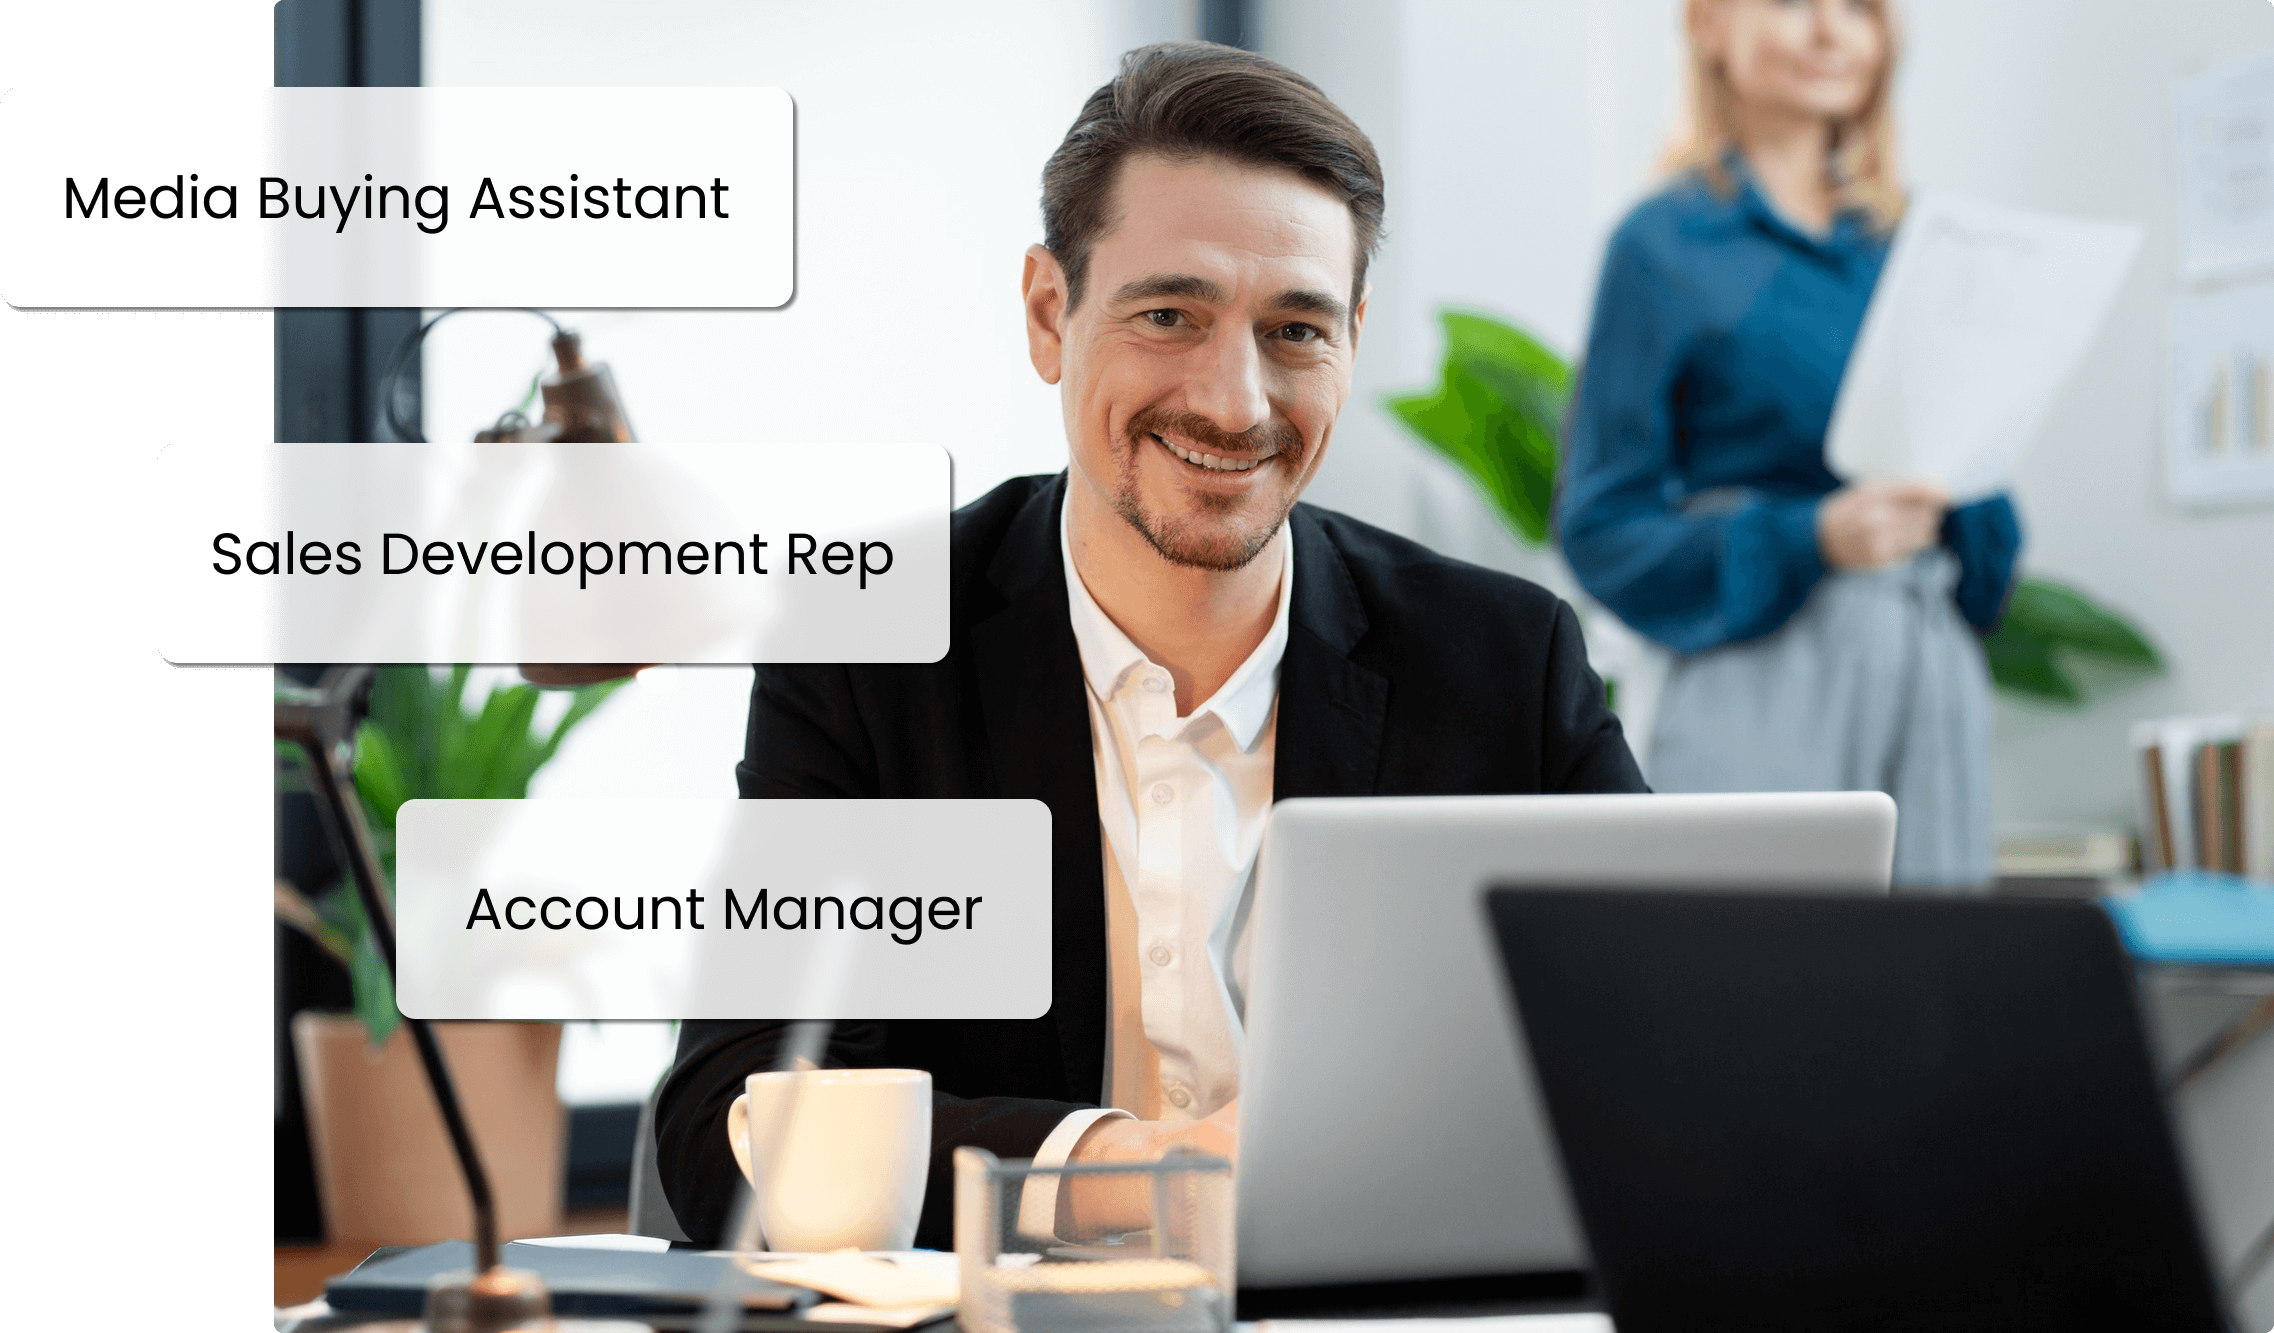
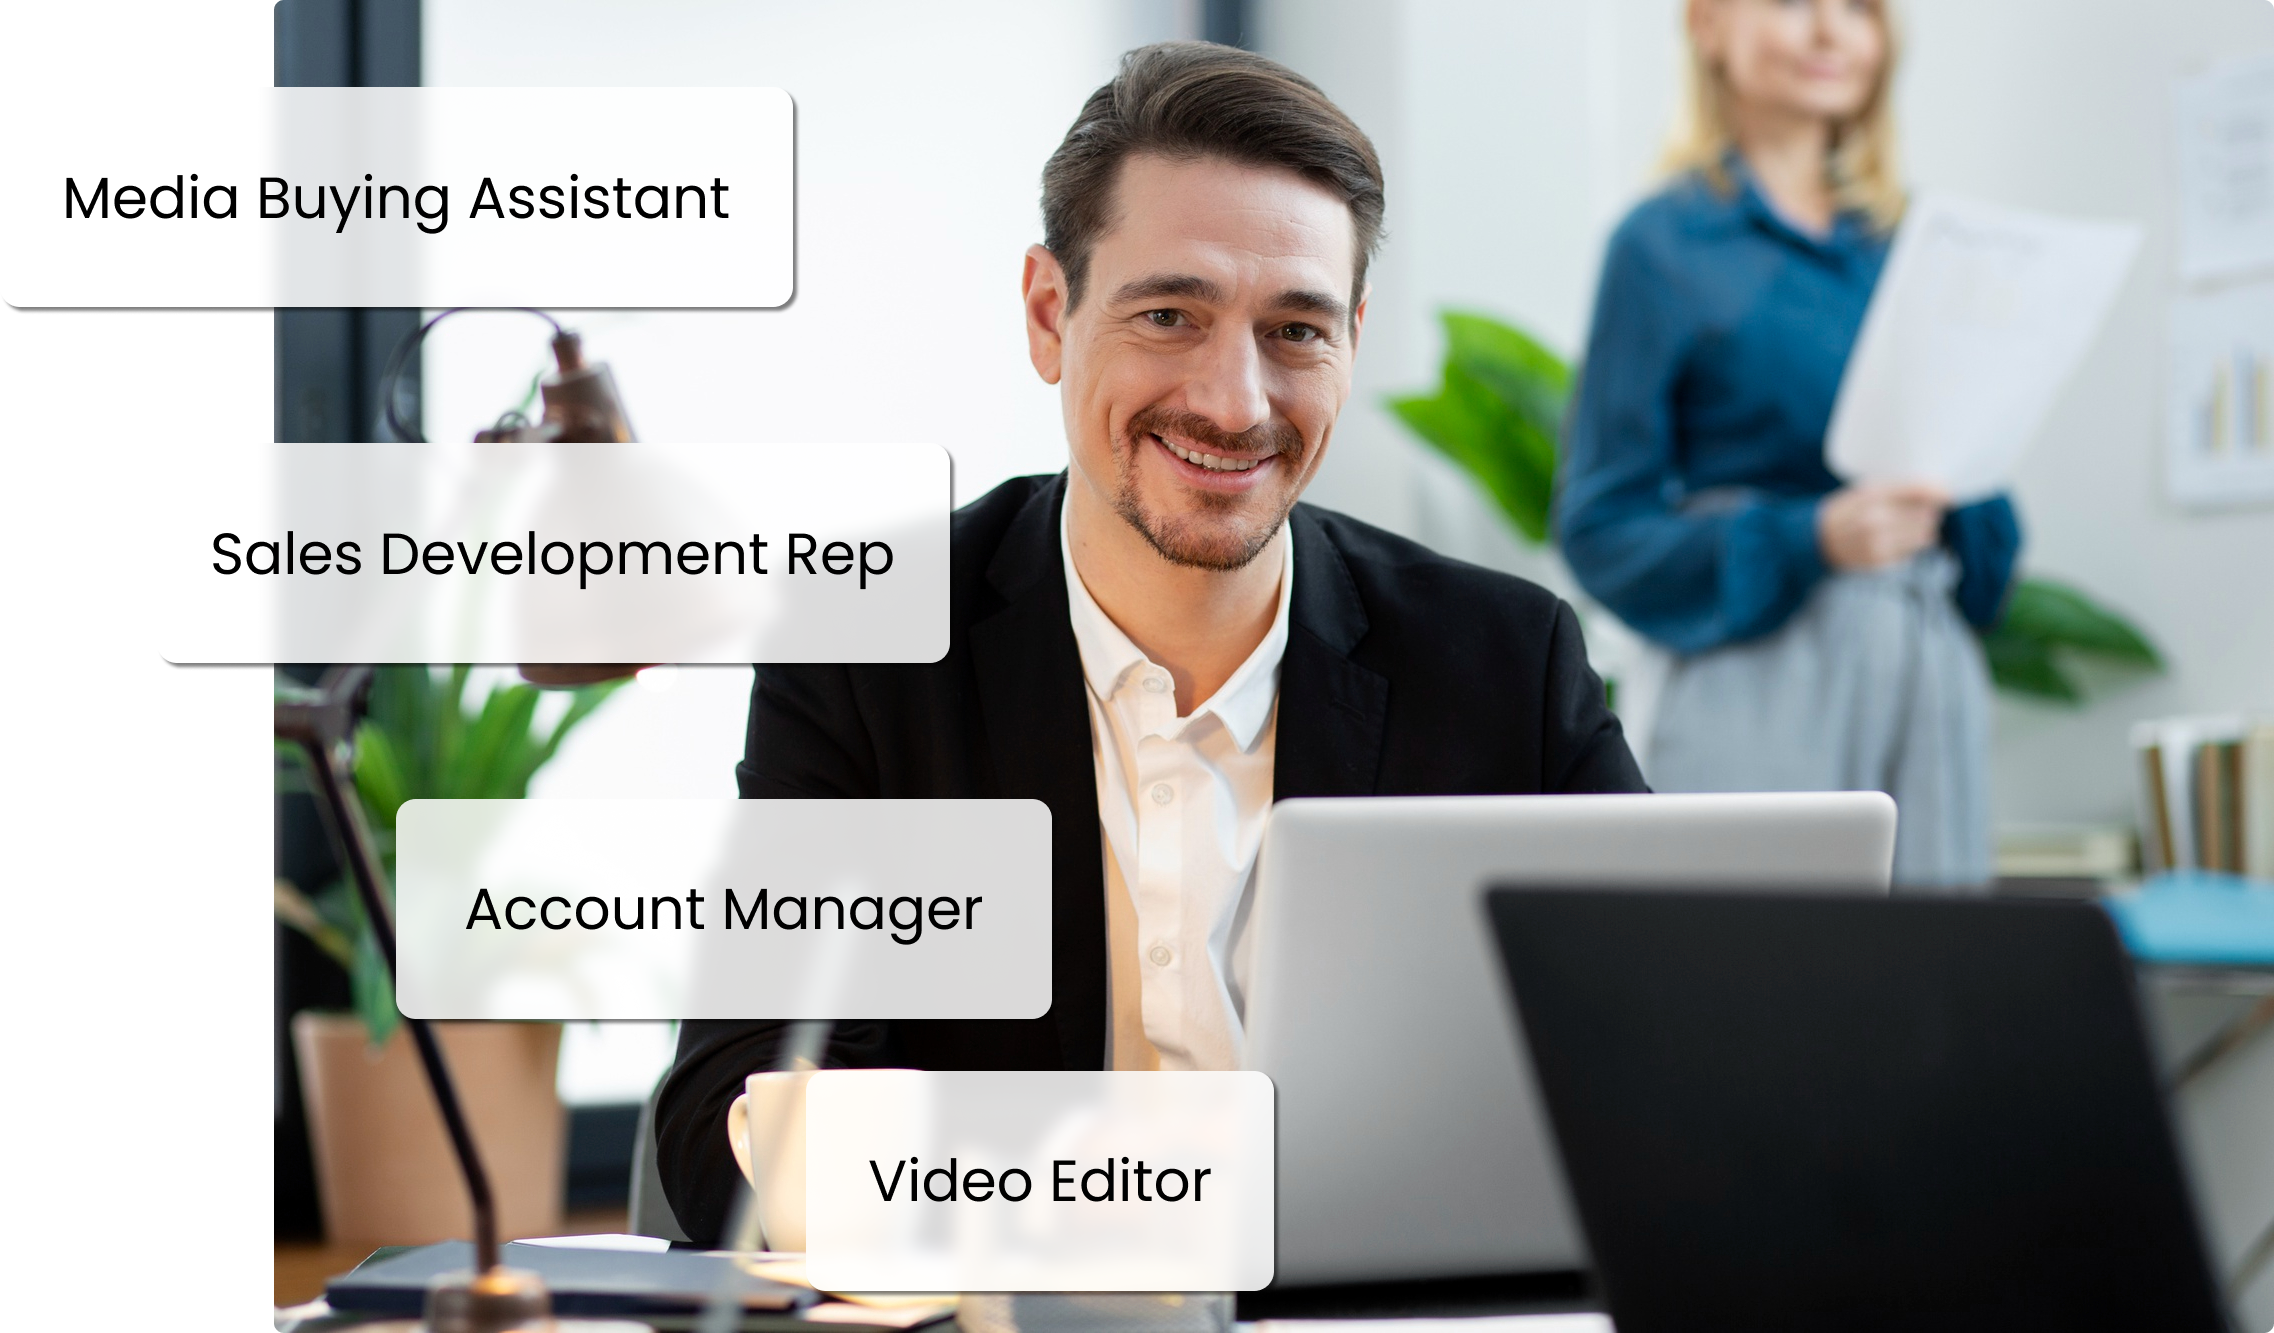
worked on the current changes

Changed region(s): [[0.3434, 0.7997, 0.562, 0.9842]]

diff --git a/components/pricing/index.js b/components/pricing/index.js
@@ -3,7 +3,7 @@ import React, { useState, useEffect } from "react";
 function Pricing() {
   return (
     <section className="pricing-con">
-      <h1 className="mainheading">3 Roles</h1>
+      <h1 className="mainheading">4 Roles</h1>
       <div className="pricing-card-wrap">
         <div className="card-wrap">
           <h1 className="card-heading">Marketing Assistant</h1>
@@ -63,22 +63,15 @@ function Pricing() {
               Handling Payment Processers like Stripe or Wave
             </li>
           </ul>
-          <h3>
-            <Image src="/images/done.png" width={12} height={16} alt="~" />
-            Excellent Leadership Qualities
-          </h3>
-          <h3>
+
+          <h3 style={{ marginBottom: "30px" }}>
             <Image src="/images/done.png" width={12} height={16} alt="~" /> Pre
             Launch and Manage Podcasts/Webinars
           </h3>
-          <h3>
-            <Image src="/images/done.png" width={12} height={16} alt="~" /> Pre
-            Entry Level Managers
-          </h3>
-          <h3 style={{ marginBottom: "30px" }}>
-            <Image src="/images/done.png" width={12} height={16} alt="~" /> Pre
-            Pre trained Digital Marketers*
-          </h3>
+          <h3 className="cus-sol-h">** Customized Solution **</h3>
+          <p className="italic-p">
+            Tell us what you need and we&apos;ll hunt for those qualities!
+          </p>
           <div className="price-card-btn">
             <a href="#calendly" className="btnLink">
               Get Started
@@ -119,24 +112,16 @@ function Pricing() {
           </h3>
           <h3>
             <Image src="/images/done.png" width={12} height={16} alt="~" />
-            Capable of Setting Comp Structure for Others
-          </h3>
-          <h3>
-            <Image src="/images/done.png" width={12} height={16} alt="~" />
-            Strong Interpersonal Skills
-          </h3>
-          <h3>
-            <Image src="/images/done.png" width={12} height={16} alt="~" />
             Strong Communication Skills
           </h3>
           <h3>
             <Image src="/images/done.png" width={12} height={16} alt="~" />
             Relationship Building Skills
           </h3>
-          <h3>
-            <Image src="/images/done.png" width={12} height={16} alt="~" /> Pre
-            trained Digital Marketers*
-          </h3>
+          <h3 className="cus-sol-h">** Customized Solution **</h3>
+          <p className="italic-p">
+            Tell us what you need and we&apos;ll hunt for those qualities!
+          </p>
           <div className="price-card-btn">
             <a href="#calendly" className="btnLink">
               Get Started
@@ -168,24 +153,79 @@ function Pricing() {
           </ul>
           <h3>
             <Image src="/images/done.png" width={12} height={16} alt="~" />
-            Culturally Fit
-          </h3>
-          <h3>
-            <Image src="/images/done.png" width={12} height={16} alt="~" />
             Project Management
           </h3>
           <h3>
             <Image src="/images/done.png" width={12} height={16} alt="~" />
             Team Management
           </h3>
+          <h3 className="cus-sol-h">** Customized Solution **</h3>
+          <p className="italic-p">
+            Tell us what you need and we&apos;ll hunt for those qualities!
+          </p>
+          <div className="price-card-btn">
+            <a href="#calendly" className="btnLink">
+              Get Started
+            </a>
+          </div>
+        </div>
+        <div className="card-wrap">
+          <h1 className="card-heading">Video Editor</h1>
+          <p className="sub-text">Pre trained Digital Marketers*</p>
           <h3>
             <Image src="/images/done.png" width={12} height={16} alt="~" />
-            Perfect English, both spoken and
+            Video Storytelling
+          </h3>
+          <ul className="pricing-list">
+            <li className="price-items">
+              Proficient in video editing software and tools
+            </li>
+            <li className="price-items">Color Correction and Grading</li>
+          </ul>
+          <h3>
+            <Image src="/images/done.png" width={12} height={16} alt="~" />
+            Audio Editing
+          </h3>
+          <ul className="pricing-list">
+            <li className="price-items">Audio manipulation</li>
+            <li className="price-items">Synchronization</li>
+            <li className="price-items">Mixing</li>
+          </ul>
+          <h3>
+            <Image src="/images/done.png" width={12} height={16} alt="~" />
+            Project ManagementMotion Graphics
+          </h3>
+          <ul className="pricing-list">
+            <li className="price-items">Graphical elements</li>
+            <li className="price-items">Text overlays</li>
+            <li className="price-items">Animations</li>
+          </ul>
+          <h3>
+            <Image src="/images/done.png" width={12} height={16} alt="~" />
+            Video Compression and Export Time Management
+          </h3>
+          <ul className="pricing-list">
+            <li className="price-items">Meet deadlines</li>
+            <li className="price-items">
+              Manage multiple video editing projects simultaneously.
+            </li>
+          </ul>
+          <h3>
+            <Image src="/images/done.png" width={12} height={16} alt="~" />
+            Transitions and Effects
           </h3>
           <h3>
-            <Image src="/images/done.png" width={12} height={16} alt="~" /> Pre
-            trained Digital Marketers*
+            <Image src="/images/done.png" width={12} height={16} alt="~" />
+            Collaboration
           </h3>
+          <h3>
+            <Image src="/images/done.png" width={12} height={16} alt="~" />
+            Creative Thinking
+          </h3>
+          <h3 className="cus-sol-h">** Customized Solution **</h3>
+          <p className="italic-p">
+            Tell us what you need and we&apos;ll hunt for those qualities!
+          </p>
           <div className="price-card-btn">
             <a href="#calendly" className="btnLink">
               Get Started

diff --git a/components/pricing/pricing.scss b/components/pricing/pricing.scss
@@ -29,7 +29,7 @@
             transition: 0.3s ease-in-out;
             display: flex;
             flex-direction: column;
-            width: 380px;
+            width: 300px;
             padding: 30px 20px;
             margin:15px 20px 15px 0px;
             position: relative;
@@ -41,7 +41,7 @@
             }
             .card-heading{
                 text-align: center;
-                font-size: 24px;
+                font-size: 20px;
                 margin-bottom: 0px;
                 color: #19232a !important;
             }
@@ -96,4 +96,14 @@
                     color: #fff !important;
                 }
         }
+}
+.cus-sol-h{
+    font-size: 16px !important;
+}
+.italic-p{
+    font-size: 16px;
+    color: #000 !important;
+    padding-top: 0px;
+    margin: 0px;
+    margin-bottom: 40px;
 }

diff --git a/components/carousel/carousel.js b/components/carousel/carousel.js
@@ -11,8 +11,9 @@ function CarouselComp() {
         showThumbs={false}
         showStatus={false}
         interval={6000}
+        className="test-carousel"
       >
-        {/* <div className="testimonial-item">
+        <div className="testimonial-item">
           <div className="testmonial-card">
             <div className="img-wrap">
               <img
@@ -41,7 +42,7 @@ function CarouselComp() {
               </p>
             </div>
           </div>
-        </div> */}
+        </div>
         <div className="testimonial-item">
           <div className="testmonial-card">
             <div className="img-wrap">

diff --git a/components/carousel/carousel.scss b/components/carousel/carousel.scss
@@ -78,3 +78,13 @@
 		padding: 1rem 2rem;
 	}
 }
+.test-carousel{
+        height: 360px;
+        .carousel{
+            height: 340px;
+            .control-dots{
+                bottom: -10px;
+            }
+        }
+    
+}
